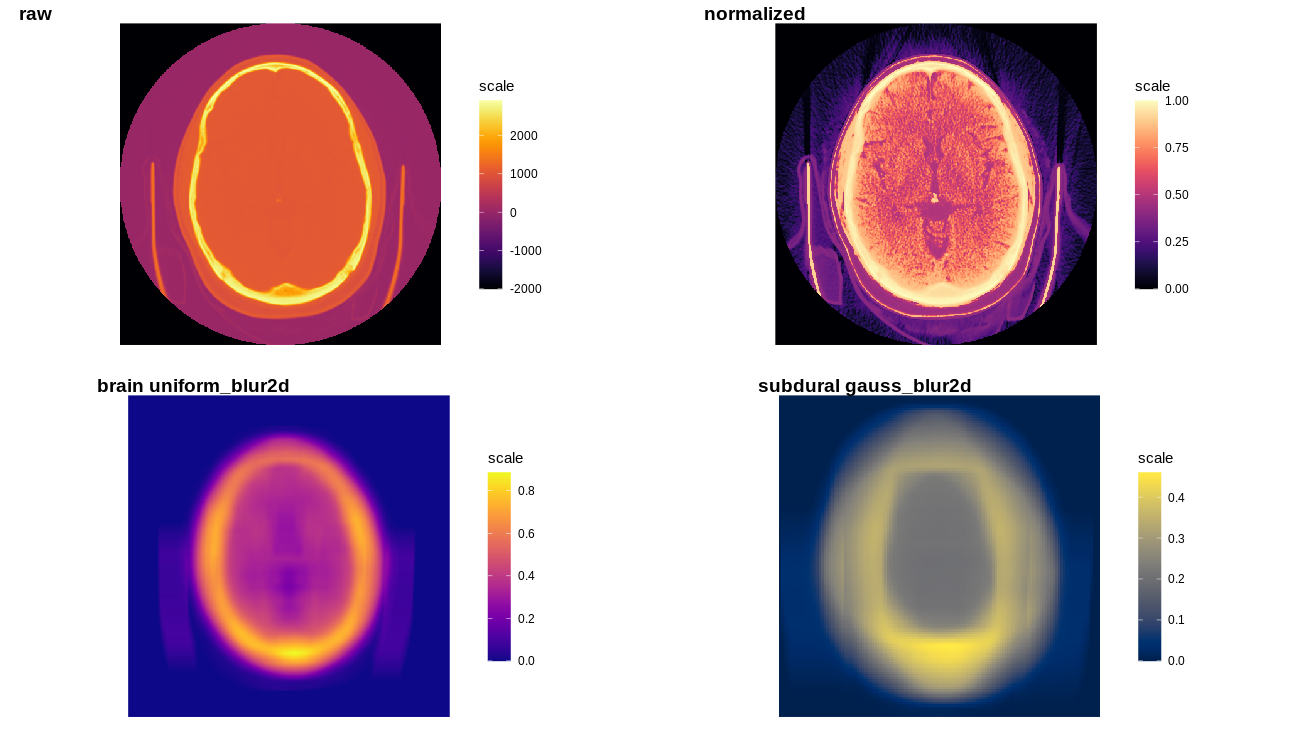
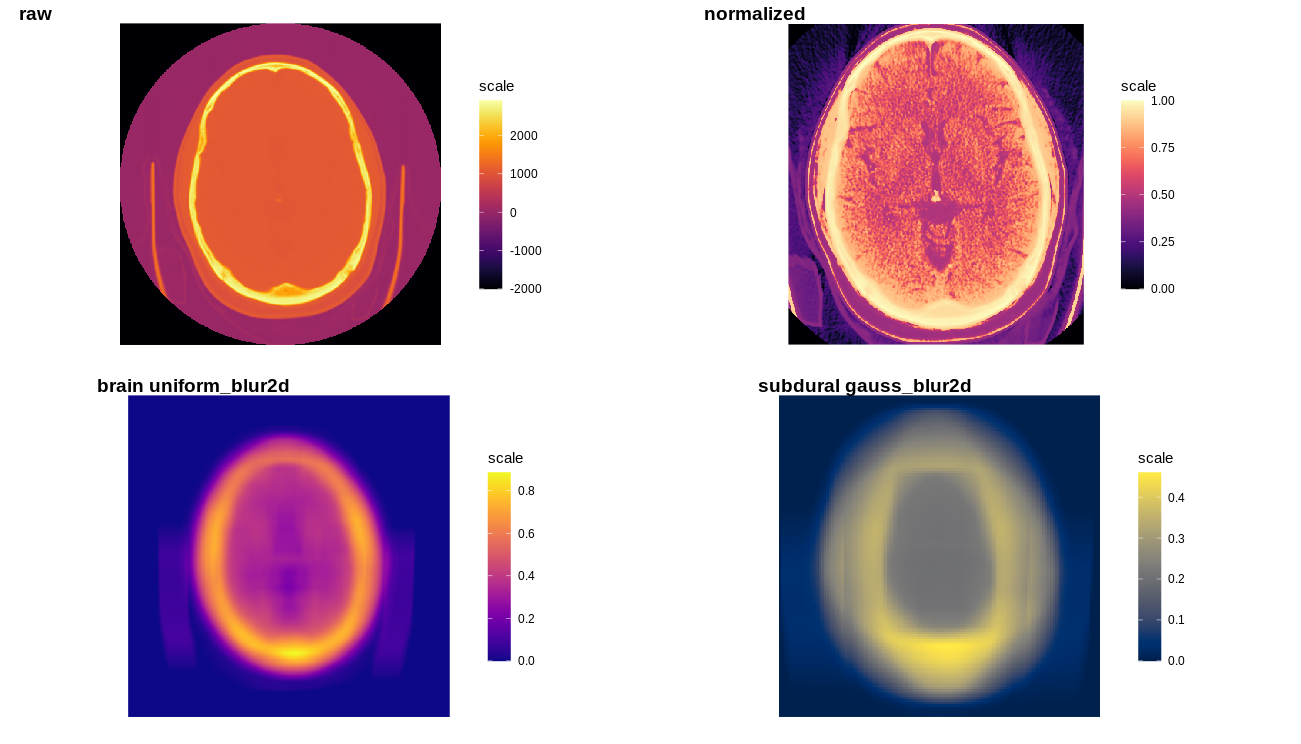
add example

Changed region(s): [[0.5842, 0.0309, 0.9224, 0.4637]]

diff --git a/README.md b/README.md
@@ -539,7 +539,7 @@ for ( i in 1:length(types)) {
     p = nandb::matrix_raster_plot(img %>% get_dcm_matrix(type = types[i],
                                                          scan = scan),
                                                          colours = colors[[i]])
-    p + ylim(c(res[[1]][[1]],res[[2]][[1]])) + xlim(c(res[[1]][[2]],res[[2]][[2]]))
+    p = p + ylim(c(res[[1]][[1]],res[[2]][[1]])) + xlim(c(res[[1]][[2]],res[[2]][[2]]))
 
   # zoom image (25 %)
   } else if (i==4) {
